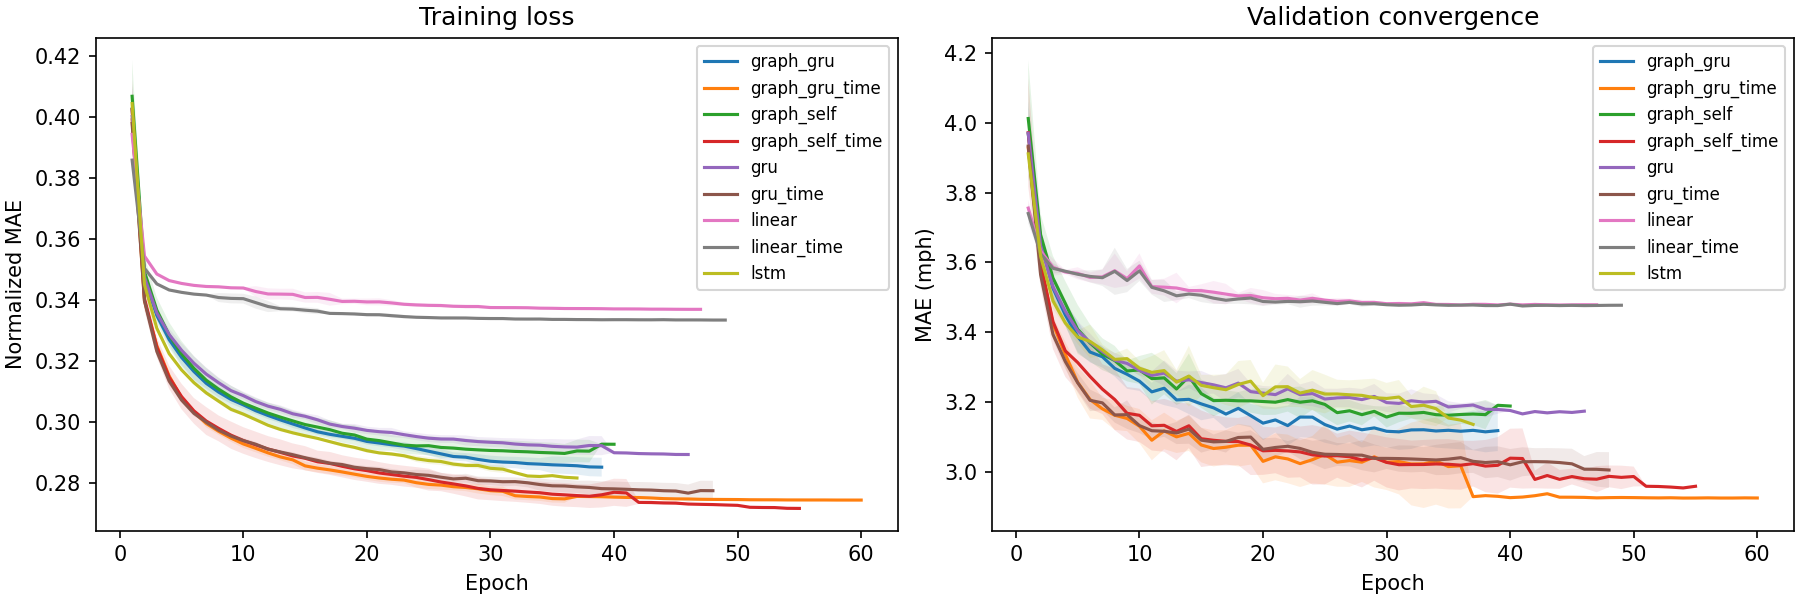
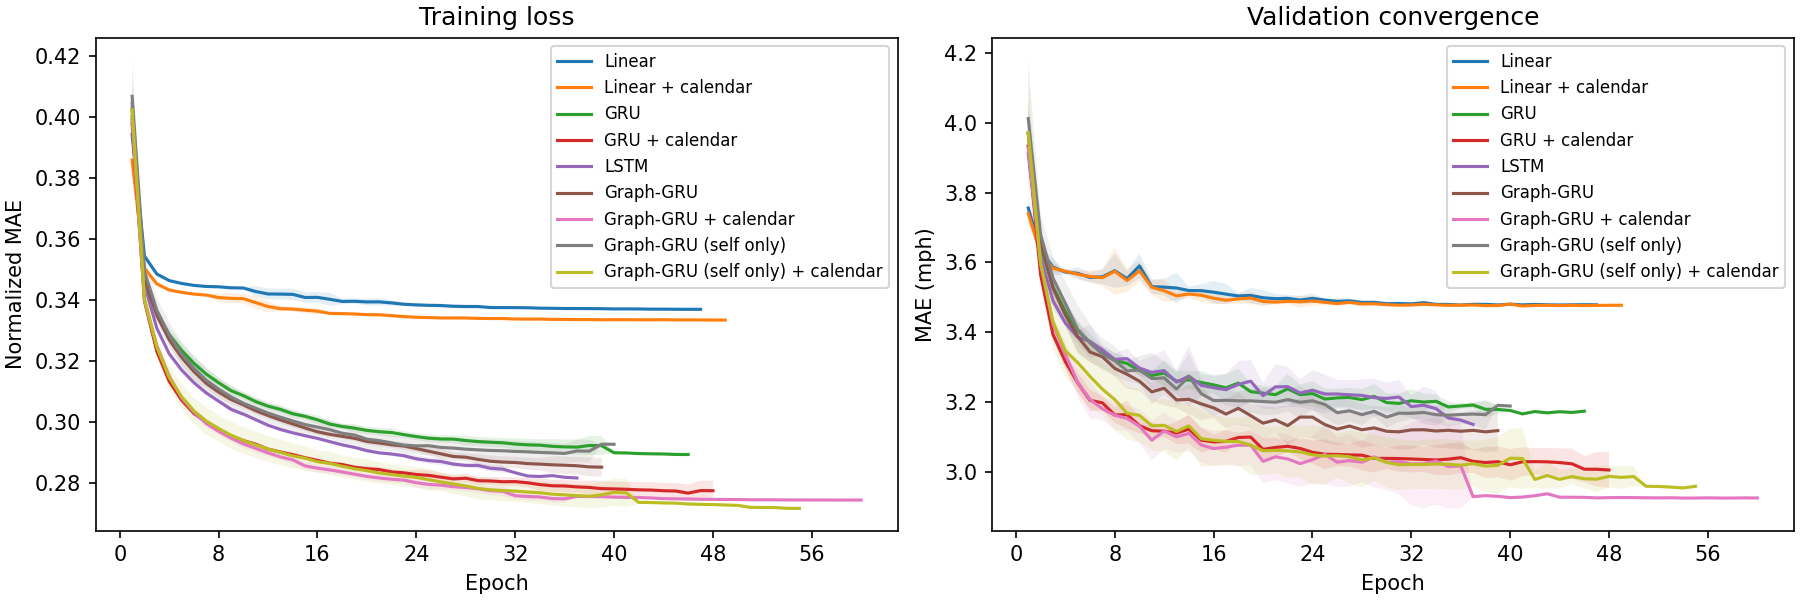
docs(research): redrawn figures, and fewer of them
Readable labels on the federated, benchmark and extended-benchmark charts, legends
clear of the data in the interval and drift charts, a bar chart for the DCRNN
ablation, and the old CI receipt explained. Removes 14 figures no page shows,
including a blank pilot chart and a chart with a single point.

diff --git a/reports/README.md b/reports/README.md
@@ -44,6 +44,6 @@ The federated folders (`fedgraph/`, `fedopt/`, `diffusion/federated/`) and `hold
 
 A manifest describes the code at the time of its run, so its source hashes can differ from the current checkout. `$REPO` and `$PYTHON_ENV` stand in for local paths in saved records, and the [export receipts](export-provenance.json) keep the hashes from before the swap.
 
-[Baseline preservation](baseline-preservation.json) checks the saved records against their source commit and maps later filename changes. The [baseline dependency lock](baseline-requirements-lock.txt) is the older centralized environment; new installs use the root [requirements-lock.txt](../requirements-lock.txt). The [CI receipt](ci.json) marks a completed clean-install test run, and [Actions](https://github.com/ivanimmanuel-dev/TraCast/actions/workflows/tests.yml) shows the latest status. The `tests.txt` files inside experiment folders belong to those experiments.
+[Baseline preservation](baseline-preservation.json) checks the saved records against their source commit and maps later filename changes. The [baseline dependency lock](baseline-requirements-lock.txt) is the older centralized environment; new installs use the root [requirements-lock.txt](../requirements-lock.txt). The [CI receipt](ci.json) and the `tests.txt` next to it are from an early commit, when the suite had 84 tests and a clean install had just passed. [Actions](https://github.com/ivanimmanuel-dev/TraCast/actions/workflows/tests.yml) shows the current status, and the `tests.txt` files inside experiment folders belong to those experiments.
 
 Raw data, generated client arrays, checkpoints and Flower state stay in the ignored `data/` and `runs/` folders. What's committed here is the measurements.

diff --git a/docs/audit.md b/docs/audit.md
@@ -48,7 +48,7 @@ Still open: it is one machine and no network, the validation statistics the serv
 - Zero counts as missing, which also drops real stopped traffic.
 - One city and one four-month period, with one test window of 24 days.
 - Overlapping windows (one per five minutes) are strongly correlated, so the number of independent test points is far smaller than the number of windows. The test-day intervals are my way of respecting that, and they are wide for that reason.
-- Seeds: two to five per cell depending on the experiment.
+- Seeds: one to five per cell depending on the experiment, and the FedProx study and the 64-sensor DCRNN comparison have only one.
 
 ## Speed and memory
 
